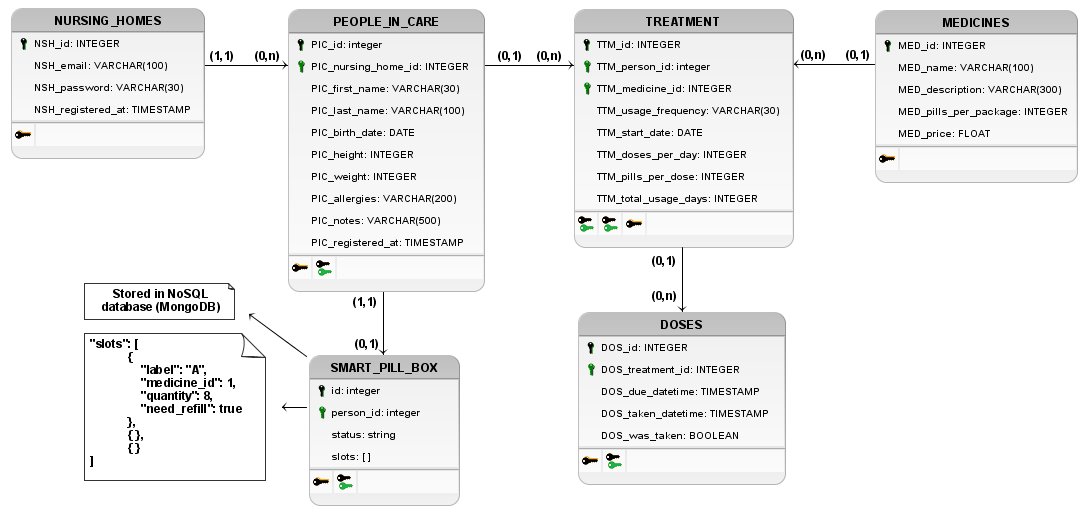
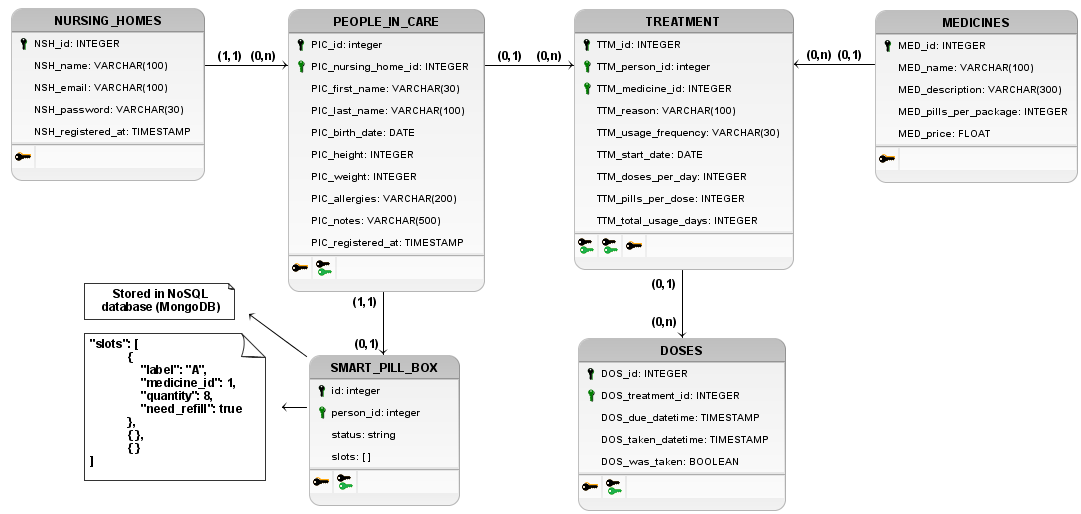
feat: adiciona campos do nome da casa de repouso e motivo do tratamento

diff --git a/database/mongo-connection.php b/database/mongo-connection.php
@@ -7,7 +7,7 @@ $connection_str = 'mongodb://localhost:27017';
 $client = new MongoDB\Client($connection_str);
 
 try {
-    $db = $client->selectDatabase('health_monitoring');
+    $db = $client->selectDatabase('smart_pill_box');
     $sensors_data_collection = $db->selectCollection('sensors_data');
 } catch (Exception $e) {
     printf($e->getMessage());

diff --git a/database/mysql-connection.php b/database/mysql-connection.php
@@ -3,7 +3,7 @@
 $server = "localhost";
 $user = "root";
 $password = "";
-$database = "health_monitoring";
+$database = "smart_pill_box";
 
 try {
     $connection = new PDO(
